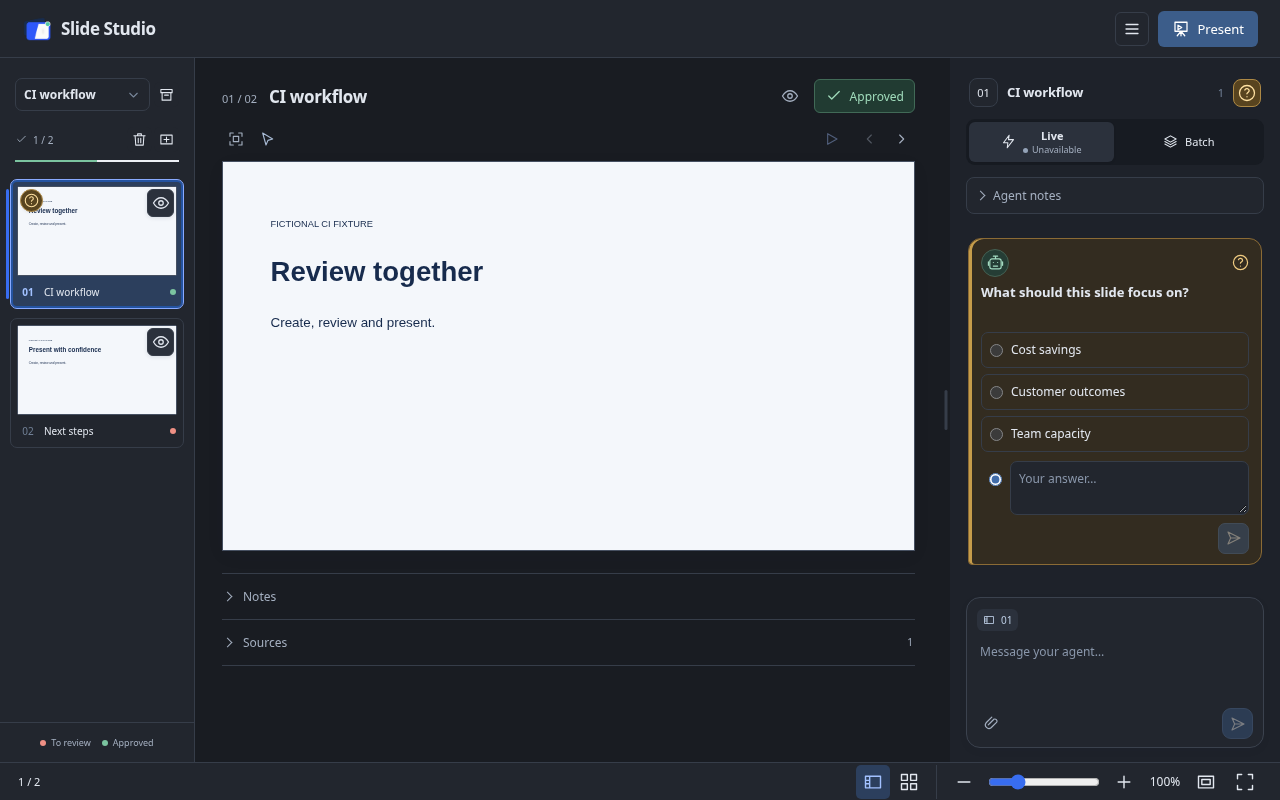
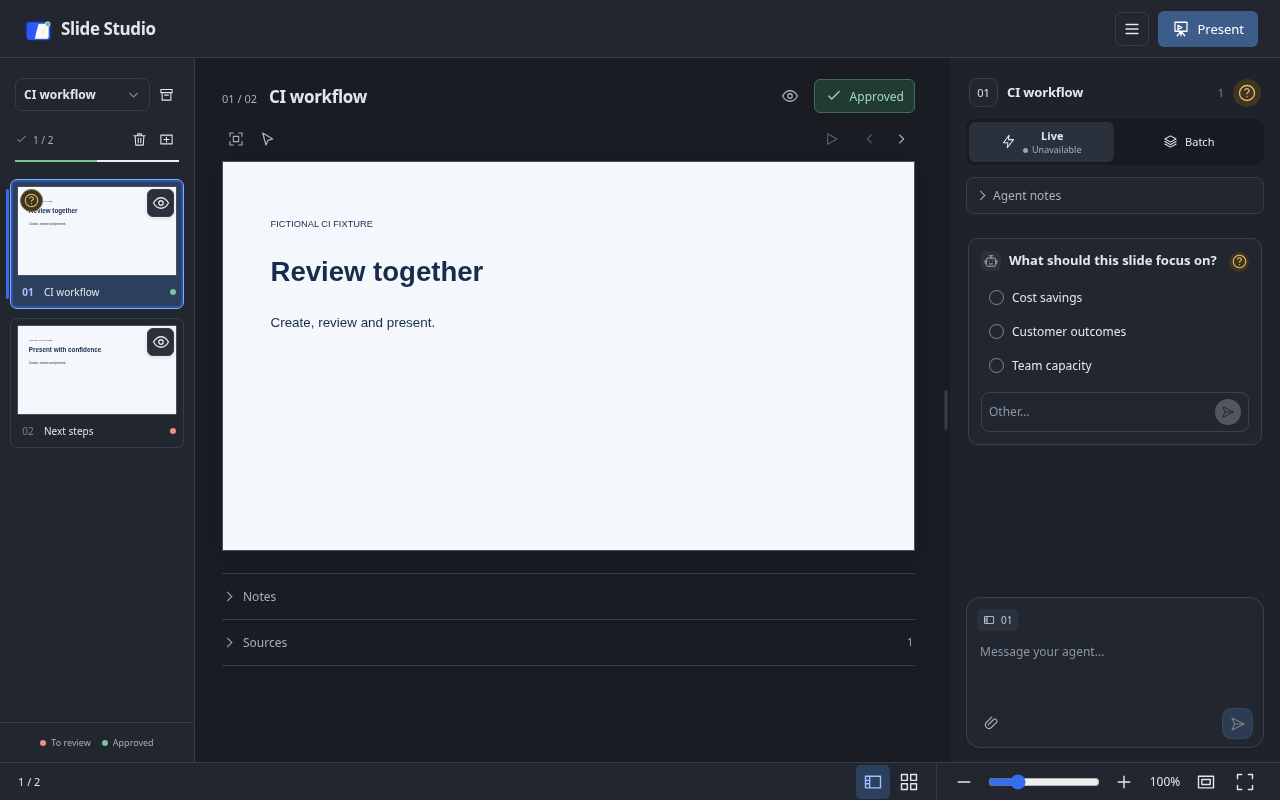
Compact slide questions and anchor zoom to the pointer

diff --git a/web/slide-questions.js b/web/slide-questions.js
@@ -17,16 +17,15 @@
       let value=draft(id);const answer=answerFor(question,events),pending=value.choice===null?value.text.trim():question.question.options[value.choice];if(answer&&pending&&answer.message===pending){drafts.delete(id);persist();value=draft(id);}
       const batch=deliveryMode()==='batch',hasDraft=!!value.text||value.choice!==null,description=({open:'Awaiting your answer',queued:'Answer queued — not sent to the agent',answered:'Answered',cancelled:'Cancelled'})[state];
       const stateIcon=state==='open'?'question':state==='queued'?'clock':state==='answered'?'check':'close';
-      const choices=(question.question.options||[]).map((option,index)=>`<label class="question-option"><input type="radio" name="question-${question.event_id}" value="${index}" ${value.choice===index?'checked':''}><span>${escape(option)}</span></label>`).join('');
-      const input=open||hasDraft?`<div class="question-custom">${open&&question.question.options.length?`<input type="radio" name="question-${question.event_id}" value="custom" aria-label="Write your own answer" ${value.choice===null?'checked':''}>`:''}<textarea class="question-answer" maxlength="10000" rows="2" aria-label="${open?'Write your own answer':'Unsent answer'}" placeholder="Your answer…" ${open?'':'readonly'}>${escape(open?value.text:value.text||(question.question.options[value.choice]||''))}</textarea></div>`:'';
+      const choices=(question.question.options||[]).map((option,index)=>`<label class="question-option"><input type="radio" name="question-${question.event_id}" value="${index}" ${value.choice===index?'checked':''}><span class="question-choice-mark" aria-hidden="true">${svg('check')}</span><span>${escape(option)}</span></label>`).join('');
+      const input=open||hasDraft?`<div class="question-custom">${open&&question.question.options.length?`<input type="radio" name="question-${question.event_id}" value="custom" aria-label="Write your own answer" ${value.choice===null?'checked':''}>`:''}<textarea class="question-answer" maxlength="10000" rows="1" aria-label="${open?'Write your own answer':'Unsent answer'}" placeholder="${question.question.options.length?'Other…':'Your answer…'}" ${open?'':'readonly'}>${escape(open?value.text:value.text||(question.question.options[value.choice]||''))}</textarea></div>`:'';
       return `<article class="comment agent question-card" data-question-id="${question.event_id}" data-question-state="${state}">
-        <div class="comment-header">${avatar('agent')}<span class="question-state" role="img" aria-label="${description}" title="${description}">${svg(stateIcon)}${state==='queued'||state==='cancelled'?`<span aria-hidden="true">${state==='queued'?'Queued':'Cancelled'}</span>`:''}</span></div>
-        <form class="question-form"><fieldset aria-labelledby="question-prompt-${question.event_id}"><legend class="sr-only">Answer the agent’s question</legend><div class="question-prompt chat-markdown" id="question-prompt-${question.event_id}" tabindex="-1">${root.SlideChatMarkdown.render(question.message)}</div>${open&&question.content_hash!==contentHash?'<span class="old-version question-version">Earlier version</span>':''}
-          ${open?`<div class="question-options">${choices}</div>`:''}${input}
-          <div class="question-actions" ${!open&&!hasDraft&&!errors.get(id)?'hidden':''}><span class="question-error" role="alert">${escape(errors.get(id)||'')}</span>
+        <form class="question-form"><fieldset aria-labelledby="question-prompt-${question.event_id}"><legend class="sr-only">Answer the agent’s question</legend><div class="question-heading">${avatar('agent')}<div class="question-prompt chat-markdown" id="question-prompt-${question.event_id}" tabindex="-1">${root.SlideChatMarkdown.render(question.message)}</div><span class="question-state" role="img" aria-label="${description}" title="${description}">${svg(stateIcon)}${state==='queued'||state==='cancelled'?`<span aria-hidden="true">${state==='queued'?'Queued':'Cancelled'}</span>`:''}</span></div>${open&&question.content_hash!==contentHash?'<span class="old-version question-version">Earlier version</span>':''}
+          ${open?`<div class="question-options">${choices}</div>`:''}<div class="question-response" ${!open&&!hasDraft&&!errors.get(id)?'hidden':''}>${input}
+          <div class="question-actions" ${!open&&!hasDraft&&!errors.get(id)?'hidden':''}>
             ${open||hasDraft?`<button type="reset" class="question-clear" aria-label="Discard unsent answer" title="Discard unsent answer" ${hasDraft?'':'hidden'}>${svg('close')}</button>`:''}
-            ${open?`<button class="primary question-send" type="submit" aria-label="${batch?'Add answer to batch':'Send answer'}" title="${batch?'Add answer to batch':'Send answer'}" data-delivery-mode="${batch?'batch':'live'}">${svg(batch?'batch':'send')}</button>`:''}
-          </div></fieldset></form></article>`;
+            ${open?`<button class="question-send" type="submit" aria-label="${batch?'Add answer to batch':'Send answer'}" title="${batch?'Add answer to batch':'Send answer'}" data-delivery-mode="${batch?'batch':'live'}">${svg(batch?'batch':'send')}</button>`:''}
+          </div><span class="question-error" role="alert">${escape(errors.get(id)||'')}</span></div></fieldset></form></article>`;
     }
     function updateDelivery(list){const mode=deliveryMode();for(const button of list.querySelectorAll('.question-send')){if(button.dataset.deliveryMode===mode)continue;const batch=mode==='batch',label=batch?'Add answer to batch':'Send answer';button.dataset.deliveryMode=mode;button.setAttribute('aria-label',label);button.title=label;button.innerHTML=svg(batch?'batch':'send');}}
     function mount(list,events,deckId,slideId){
@@ -35,10 +34,10 @@
         const question=events.find(item=>item.event_id===Number(card.dataset.questionId));if(!question)continue;
         const id=key(deckId,slideId,question.event_id),form=card.querySelector('form'),input=card.querySelector('textarea'),send=card.querySelector('.question-send');
         function sync(){const current=draft(id);if(send)send.disabled=busy.has(id)||(current.choice===null&&!current.text.trim());for(const element of card.querySelectorAll('input,textarea,button'))element.disabled=busy.has(id);if(send&&!busy.has(id))send.disabled=current.choice===null&&!current.text.trim();card.setAttribute('aria-busy',String(busy.has(id)));const clear=card.querySelector('.question-clear');if(clear)clear.hidden=!current.text&&current.choice===null;const error=card.querySelector('.question-error');if(error)error.textContent=errors.get(id)||'';}
-        function clear(){drafts.delete(id);errors.delete(id);persist();if(input)input.value='';for(const radio of card.querySelectorAll('input'))radio.checked=radio.value==='custom';card.querySelector('.question-error').textContent='';if(status(question,events)!=='open'){card.querySelector('.question-custom')?.remove();card.querySelector('.question-actions').hidden=true;card.querySelector('.question-prompt').focus({preventScroll:true});}else input?.focus({preventScroll:true});sync();}
+        function clear(){drafts.delete(id);errors.delete(id);persist();if(input)input.value='';for(const radio of card.querySelectorAll('input'))radio.checked=radio.value==='custom';card.querySelector('.question-error').textContent='';if(status(question,events)!=='open'){card.querySelector('.question-custom')?.remove();card.querySelector('.question-actions').hidden=true;card.querySelector('.question-response').hidden=true;card.querySelector('.question-prompt').focus({preventScroll:true});}else input?.focus({preventScroll:true});sync();}
         input?.addEventListener('input',()=>{write(id,{text:input.value,choice:null,request_id:crypto.randomUUID()});for(const radio of card.querySelectorAll('input'))radio.checked=radio.value==='custom';sync();});
         input?.addEventListener('keydown',event=>{if(event.key==='Enter'&&!event.shiftKey&&!event.altKey&&!event.isComposing&&event.keyCode!==229&&send){event.preventDefault();if(!event.repeat&&!send.disabled)form.requestSubmit();}});
-        input?.addEventListener('focus',()=>{if(status(question,events)!=='open')return;const current=draft(id);if(current.choice!==null)write(id,{...current,choice:null,request_id:crypto.randomUUID()});for(const radio of card.querySelectorAll('input'))radio.checked=radio.value==='custom';sync();});
+        input?.addEventListener('pointerdown',()=>{if(status(question,events)!=='open')return;const current=draft(id);if(current.choice!==null)write(id,{...current,choice:null,request_id:crypto.randomUUID()});for(const radio of card.querySelectorAll('input'))radio.checked=radio.value==='custom';sync();});
         for(const radio of card.querySelectorAll('input'))radio.addEventListener('change',()=>{const current=draft(id);write(id,{...current,choice:radio.value==='custom'?null:Number(radio.value),request_id:crypto.randomUUID()});sync();if(radio.value==='custom')input?.focus({preventScroll:true});});
         form.addEventListener('reset',event=>{event.preventDefault();clear();});
         form.addEventListener('submit',async event=>{

diff --git a/web/slide-questions.css b/web/slide-questions.css
@@ -1,32 +1,63 @@
-.discussion .question-card{width:100%;max-width:100%}
-.discussion .question-card[data-question-state=open]{background:#fffbf3;border-color:#e3c385;box-shadow:inset 3px 0 #d3a54c}
-.question-state{display:inline-flex;align-items:center;gap:5px;font-size:10px;color:var(--subtle)}
-.question-card[data-question-state=open] .question-state{color:#95661a}
-.question-state .ui-icon{width:17px;height:17px}
+/* A quiet decision surface inside the conversation; amber is reserved for pending markers. */
+.discussion .comment.question-card{
+  --question-surface:#fff;
+  --question-hover:#f4f5f7;
+  --question-selected:#edf0f3;
+  --question-ink:#29313d;
+  --question-rule:#e3e6eb;
+  --question-muted:#687382;
+  width:100%;max-width:100%;padding:12px;
+  border:1px solid var(--question-rule);border-radius:10px;
+  background:var(--question-surface);box-shadow:none;
+}
+.question-heading{display:flex;align-items:flex-start;gap:8px}
+.question-card .chat-avatar.agent{width:20px;height:20px;border:0;border-radius:5px;background:var(--question-hover);color:var(--question-muted)}
+.question-card .chat-avatar .ui-icon{width:14px;height:14px}
+.question-state{display:inline-flex;align-items:center;gap:5px;font-size:10px;line-height:1.4;color:var(--subtle)}
+.question-state .ui-icon{width:15px;height:15px}
+.question-state{flex-shrink:0;margin-top:1px}
+.question-card[data-question-state=open] .question-state{width:20px;height:20px;justify-content:center;border-radius:50%;background:#fff5df;color:#956717}
 .question-form fieldset{padding:0;margin:0;min-width:0;border:0}
-.question-prompt{font-size:13px;line-height:1.5;font-weight:600;padding:0;margin-bottom:10px;white-space:pre-wrap;overflow-wrap:anywhere}
-.question-options{display:flex;flex-direction:column;gap:6px}
-.question-version{margin:0 0 8px!important}
-.question-option{display:flex;align-items:flex-start;gap:8px;padding:8px;border:1px solid var(--line);border-radius:7px;cursor:pointer;font-size:12px;line-height:1.5;overflow-wrap:anywhere}
-.question-option:has(input:checked){border-color:#7b9dcc;background:#eaf1fc}
-.question-option input{flex-shrink:0;margin:3px 0 0;accent-color:#416ca9}
-.question-card textarea{display:block;width:100%;min-height:52px;max-height:160px;resize:vertical;margin-top:9px;padding:8px;font-size:12px;line-height:1.5;border:1px solid var(--line);border-radius:7px;background:var(--surface,#fff);color:var(--ink)}
-.question-custom{display:flex;align-items:flex-start;gap:8px;margin-top:9px}
-.question-custom>input{margin:12px 0 0 8px;flex-shrink:0;accent-color:#416ca9}
-.question-custom>textarea{margin-top:0;min-width:0}
-.question-custom:has(input:checked)>textarea{border-color:#7b9dcc}
-.question-actions{display:flex;align-items:center;gap:6px;margin-top:8px}
-.question-error{flex:1;font-size:11px;color:var(--red,#a23932);overflow-wrap:anywhere}
-.question-actions button{display:grid;place-items:center;width:31px;min-height:31px;padding:6px;border-radius:7px;flex-shrink:0}
-.question-actions .ui-icon{width:16px;height:16px}
-.question-actions .question-clear{background:transparent;border:0;color:var(--subtle)}
-.thumb-question{position:absolute;top:9px;left:9px;display:flex;align-items:center;justify-content:center;gap:3px;padding:3px;border:1px solid #d6b76e;background:#fff1c9;color:#845913;border-radius:50%;box-shadow:0 1px 3px #0001;min-width:23px;height:23px}
+.question-prompt{min-width:0;flex:1;font-size:13px;line-height:1.5;font-weight:550;padding:0;margin:0;overflow-wrap:anywhere}
+.question-prompt:focus-visible{outline:2px solid var(--blue,#648ac3);outline-offset:4px;border-radius:3px}
+.question-options{display:flex;flex-direction:column;gap:2px;margin:10px 0}
+.question-options:empty{display:none}
+.question-version{margin:5px 0 0!important}
+.question-option{position:relative;display:flex;align-items:flex-start;gap:8px;min-height:32px;padding:7px 8px;border:0;border-radius:6px;cursor:pointer;font-size:12px;line-height:1.5;overflow-wrap:anywhere;transition:background .12s}
+.question-option:hover{background:var(--question-hover)}
+.question-option:has(input:checked){background:var(--question-selected);color:var(--question-ink)}
+.question-option input{position:absolute;inset:0;width:100%;height:100%;margin:0;opacity:0;cursor:pointer}
+.question-option input:disabled{cursor:default}
+.question-option:has(input:focus-visible){outline:2px solid var(--blue,#648ac3);outline-offset:2px}
+.question-choice-mark{display:grid;place-items:center;flex-shrink:0;width:15px;height:15px;margin-top:1px;border:1px solid #84909e;border-radius:50%;color:transparent}
+.question-choice-mark .ui-icon{width:10px;height:10px;stroke-width:2.4}
+.question-option:has(input:checked) .question-choice-mark{border-color:var(--question-ink);background:var(--question-ink);color:var(--question-surface)}
+.question-response{display:grid;grid-template-columns:minmax(0,1fr) auto;align-items:end;gap:0 6px;margin-top:10px;padding:6px 7px;border:1px solid var(--question-rule);border-radius:8px;transition:border-color .12s}
+.question-response:focus-within{border-color:var(--question-muted)}
+.question-response:has(input:focus-visible){outline:2px solid var(--blue,#648ac3);outline-offset:2px}
+.question-custom{position:relative;display:flex;min-width:0}
+.question-custom>input{position:absolute;clip:rect(0,0,0,0);width:1px;height:1px;margin:0;overflow:hidden}
+.discussion .question-card textarea{display:block;width:100%;min-width:0;min-height:26px;max-height:96px;resize:none;field-sizing:content;padding:3px 0;margin:0;border:0;border-radius:0;background:transparent;color:var(--ink,#20242b);font-size:12px;line-height:1.6;outline:none;box-shadow:none}
+.question-card textarea::placeholder{color:var(--question-muted)}
+.question-actions{display:flex;align-items:center;justify-content:flex-end;gap:3px}
+.question-error{grid-column:1/-1;font-size:11px;color:var(--red,#a23932);overflow-wrap:anywhere;margin-top:6px}
+.question-error:empty{display:none}
+.question-actions button{display:grid;place-items:center;width:26px;min-height:26px;padding:5px;border:0;border-radius:50%;flex-shrink:0}
+.question-actions .ui-icon{width:14px;height:14px}
+.question-actions .question-clear{background:transparent;color:var(--question-muted)}
+.question-actions .question-clear:hover{background:var(--question-hover);color:var(--question-ink)}
+.discussion .question-card .question-actions .question-send{background:var(--question-ink);color:var(--question-surface);border-color:transparent}
+.discussion .question-card .question-actions .question-send:hover:not(:disabled){opacity:.82}
+.discussion .question-card .question-actions .question-send:disabled{opacity:.25}
+.question-card:not([data-question-state=open]) .question-prompt{margin-bottom:0;color:var(--subtle);font-size:13px;font-weight:450}
+.question-card:not([data-question-state=open]) .question-response{margin-top:12px}
+.thumb-question{position:absolute;top:9px;left:9px;display:flex;align-items:center;justify-content:center;gap:3px;min-width:23px;height:23px;padding:3px;border:1px solid #dfc78e;border-radius:50%;background:#fff5df;color:#895e16}
 .thumb-question .ui-icon{width:15px;height:15px}
 .thumb-question[hidden]{display:none}
-#chat-question-status{margin-left:auto;min-height:28px;width:28px;padding:4px;background:#fff1c9;color:#845913;border-color:#d6b76e;border-radius:8px}
-:root[data-theme=dark] .discussion .question-card[data-question-state=open]{background:#332c20;border-color:#8b6b35;box-shadow:inset 3px 0 #c69d4b}
-:root[data-theme=dark] .question-card[data-question-state=open] .question-state{color:#f0cb81}
-:root[data-theme=dark] .question-option:has(input:checked){background:var(--selected);border-color:#7396cb}
-:root[data-theme=dark] :is(.thumb-question,#chat-question-status){background:#58441f;color:#ffe1a2;border-color:#ad8945}
-
-.question-prompt:focus-visible{outline:2px solid var(--blue,#648ac3);outline-offset:3px;border-radius:3px}
+#chat-question-status{margin-left:auto;min-height:28px;width:28px;padding:5px;border:0;border-radius:50%;background:#fff5df;color:#895e16}
+:root[data-theme=dark] .discussion .comment.question-card{--question-surface:#22262e;--question-hover:#2b3039;--question-selected:#343b47;--question-ink:#e2e7ef;--question-rule:#3b424e;--question-muted:#a1acbd;background:var(--question-surface);border-color:var(--question-rule)}
+:root[data-theme=dark] .question-card .chat-avatar.agent{background:var(--question-hover);color:var(--question-muted);border:0}
+:root[data-theme=dark] .question-choice-mark{border-color:#7c8799}
+:root[data-theme=dark] .question-card[data-question-state=open] .question-state{background:#40351f;color:#e7be70}
+:root[data-theme=dark] :is(.thumb-question,#chat-question-status){background:#40351f;color:#e7be70;border-color:#80683e}
+@media(forced-colors:active){.question-option:has(input:checked){outline:1px solid Highlight}.question-option:has(input:checked) .question-choice-mark{border-color:Highlight;background:Highlight;color:HighlightText}.question-card[data-question-state=open] .question-state{outline:1px solid CanvasText}}

diff --git a/web/slide-sorter.js b/web/slide-sorter.js
@@ -15,11 +15,27 @@
     const offset={ArrowLeft:-1,ArrowRight:1,ArrowUp:-columns,ArrowDown:columns}[key]||0;
     return Math.max(0,Math.min(count-1,index+offset));
   }
-  function create({workspace,rail,preview,controls,read,prepare,onChange=()=>{},edit,blocked=()=>false,requestFrame=callback=>root.requestAnimationFrame(callback),cancelFrame=id=>root.cancelAnimationFrame(id)}){
+  function create({workspace,rail,preview,canvas=null,controls,read,prepare,onChange=()=>{},edit,blocked=()=>false,requestFrame=callback=>root.requestAnimationFrame(callback),cancelFrame=id=>root.cancelAnimationFrame(id)}){
     const {editButton,gridButton,minus,plus,range,value,fit,status}=controls;
     let zoom=100,editorZoom=100,reference=700,autoFit=false,changing=false,queued=null,applying=null,wheel=0,frame=null,epoch=0;
     let renderedView=null,renderedEditorZoom=null,renderedCardWidth=null,renderedDense=null;
     const isOpen=()=>zoom<=50;
+    /** Retain a slide coordinate at the pointer, or the visible centre for toolbar zoom. */
+    function captureAnchor(point){
+      if(!canvas)return null;
+      const surface=preview.querySelector('iframe')||preview,bounds=surface.getBoundingClientRect(),viewport=canvas.getBoundingClientRect();
+      const left=Math.max(bounds.left,viewport.left+canvas.clientLeft),top=Math.max(bounds.top,viewport.top+canvas.clientTop),right=Math.min(bounds.right,viewport.left+canvas.clientLeft+canvas.clientWidth),bottom=Math.min(bounds.bottom,viewport.top+canvas.clientTop+canvas.clientHeight);
+      if(right<=left||bottom<=top||!bounds.width||!bounds.height)return null;
+      const inside=point&&point.x>=left&&point.x<=right&&point.y>=top&&point.y<=bottom;
+      const x=inside?point.x:(left+right)/2,y=inside?point.y:(top+bottom)/2;
+      return {surface,x,y,u:(x-bounds.left)/bounds.width,v:(y-bounds.top)/bounds.height};
+    }
+    function restoreAnchor(anchor){
+      if(!anchor||!anchor.surface.isConnected)return;
+      const bounds=anchor.surface.getBoundingClientRect();
+      canvas.scrollLeft+=bounds.left+anchor.u*bounds.width-anchor.x;
+      canvas.scrollTop+=bounds.top+anchor.v*bounds.height-anchor.y;
+    }
     function size(){const bounds=rail.getBoundingClientRect();return {width:Math.max(100,bounds.width-56),height:Math.max(100,bounds.height-48)};}
     function render(){
       const state=read(),overview=isOpen();
@@ -39,9 +55,9 @@
     }
     function schedule(){if(frame===null&&!changing&&queued)frame=requestFrame(()=>void flush());}
     /** Apply only the latest pointer/wheel target per frame; never replay a stale backlog. */
-    function set(next,{fitting=false}={}){
+    function set(next,{fitting=false,point=null}={}){
       queued?.resolve(false);
-      const result=new Promise((resolve,reject)=>{queued={next:clamp(next),fitting,resolve,reject};});
+      const result=new Promise((resolve,reject)=>{queued={next:clamp(next),fitting,point,resolve,reject};});
       schedule();return result;
     }
     async function flush(){
@@ -58,7 +74,7 @@
         }
         if(queued){request.resolve(false);request=queued;queued=null;applying=request;}
         if(!read()||blocked()){applying=null;render();request.resolve(false);return;}
-        const wasOpen=isOpen();
+        const wasOpen=isOpen(),anchor=!wasOpen&&request.next>50&&!request.fitting?captureAnchor(request.point):null;
         if(!wasOpen&&request.next<=50){const width=preview.getBoundingClientRect().width;if(width)reference=width/(editorZoom/100);}
         applying=null;zoom=request.next;autoFit=request.fitting&&zoom<=50;
         if(!isOpen())editorZoom=zoom;
@@ -68,14 +84,19 @@
           onChange(true);
           if(document.activeElement!==range)rail.querySelector('[aria-current="true"]')?.focus({preventScroll:true});
         }
+        restoreAnchor(anchor);
         request.resolve(true);
       }catch(error){request.reject(error);}
       finally{changing=false;applying=null;schedule();}
     }
-    function zoomWheel(event){
+    function zoomWheel(event,sourceFrame=null){
       if(!event.ctrlKey&&!event.metaKey||event.altKey||blocked()||!read())return;
       event.preventDefault();wheel+=event.deltaY;
-      if(Math.abs(wheel)>=12){const direction=wheel>0?-1:1;wheel=0;void set((queued?.next??applying?.next??zoom)+direction*5);}
+      if(Math.abs(wheel)>=12){
+        const direction=wheel>0?-1:1;wheel=0;
+        const offset=sourceFrame?.getBoundingClientRect(),point=Number.isFinite(event.clientX)&&Number.isFinite(event.clientY)?{x:event.clientX+(offset?.left||0),y:event.clientY+(offset?.top||0)}:null;
+        void set((queued?.next??applying?.next??zoom)+direction*5,{point});
+      }
     }
     root.SlideIcons.button(editButton,'slides','Edit view');root.SlideIcons.button(gridButton,'grid','Slide sorter');
     root.SlideIcons.button(minus,'minus','Zoom out · zoom further out for slide sorter');root.SlideIcons.button(plus,'plus','Zoom in');

diff --git a/web/app.js b/web/app.js
@@ -152,7 +152,7 @@
     const previous=feedbackDraft()||{};feedbackDrafts.set(key(),{...previous,target:currentTarget,slide_id:selectedId,context_slide_id:selectedId,content_hash:slide().content_hash});retainDraft();renderTarget();objectPicker.sync(selectedElement);if(focus)$('feedback-text').focus();return true;
   }
   /** Install immediate hover and click targeting inside the script-free slide preview. */
-  function bindPreview(){const doc=$('preview').contentDocument;if(!doc)return;elementEditor.bind(doc);const fresh=!boundPreviewDocuments.has(doc);bindKeyboardSelection(doc,fresh);doc.documentElement.style.cursor='crosshair';if(fresh){boundPreviewDocuments.add(doc);doc.addEventListener('wheel',event=>sorter.zoomWheel(event),{passive:false});doc.addEventListener('pointermove',event=>{if(elementEditor.isEditing()||elementEditor.isBusy())return;let target=event.target;if(!(target instanceof doc.defaultView.Element)||target.matches('html,body,.slide')){hoverElement=null;$('hover-box').hidden=true;return;}if(target.closest('svg')?.classList.contains('icon'))target=target.closest('svg');if(target===selectedElement){$('hover-box').hidden=true;return;}if(hoverElement===target)return;hoverElement=target;placeBox($('hover-box'),target);$('hover-box').querySelector('span').textContent=labelFor(target);});doc.documentElement.addEventListener('pointerleave',()=>{$('hover-box').hidden=true;hoverElement=null;});doc.addEventListener('click',event=>{if(elementEditor.isEditing()||elementEditor.isBusy()||feedbackSending)return;event.preventDefault();event.stopPropagation();if(elementEditor.consumeClick())return;let target=event.target;if(target.closest('svg')?.classList.contains('icon'))target=target.closest('svg');selectElement(target,false);});}if(currentTarget&&feedbackDraft()?.slide_id===selectedId&&feedbackDraft()?.content_hash===slide().content_hash){try{selectedElement=doc.querySelector(currentTarget.selector);placeBox($('selection-box'),selectedElement);elementEditor.select(selectedElement);}catch{selectedElement=null;}renderTarget();}}
+  function bindPreview(){const doc=$('preview').contentDocument;if(!doc)return;elementEditor.bind(doc);const fresh=!boundPreviewDocuments.has(doc);bindKeyboardSelection(doc,fresh);doc.documentElement.style.cursor='crosshair';if(fresh){boundPreviewDocuments.add(doc);doc.addEventListener('wheel',event=>sorter.zoomWheel(event,$('preview')),{passive:false});doc.addEventListener('pointermove',event=>{if(elementEditor.isEditing()||elementEditor.isBusy())return;let target=event.target;if(!(target instanceof doc.defaultView.Element)||target.matches('html,body,.slide')){hoverElement=null;$('hover-box').hidden=true;return;}if(target.closest('svg')?.classList.contains('icon'))target=target.closest('svg');if(target===selectedElement){$('hover-box').hidden=true;return;}if(hoverElement===target)return;hoverElement=target;placeBox($('hover-box'),target);$('hover-box').querySelector('span').textContent=labelFor(target);});doc.documentElement.addEventListener('pointerleave',()=>{$('hover-box').hidden=true;hoverElement=null;});doc.addEventListener('click',event=>{if(elementEditor.isEditing()||elementEditor.isBusy()||feedbackSending)return;event.preventDefault();event.stopPropagation();if(elementEditor.consumeClick())return;let target=event.target;if(target.closest('svg')?.classList.contains('icon'))target=target.closest('svg');selectElement(target,false);});}if(currentTarget&&feedbackDraft()?.slide_id===selectedId&&feedbackDraft()?.content_hash===slide().content_hash){try{selectedElement=doc.querySelector(currentTarget.selector);placeBox($('selection-box'),selectedElement);elementEditor.select(selectedElement);}catch{selectedElement=null;}renderTarget();}}
   /** Render discussion as text, including element anchors and original-version labels. */
   function renderWorkflow(){
     const state=deck.workflow||{mode:'live',pending:0},live=state.mode==='live',available=state.agent_waiting;
@@ -283,7 +283,7 @@
     }
   });
   const sorter=window.SlideSorter.create({
-    workspace:document.querySelector('.workspace'),rail:$('slides'),preview:$('preview-wrap'),
+    workspace:document.querySelector('.workspace'),rail:$('slides'),preview:$('preview-wrap'),canvas:document.querySelector('.canvas-area'),
     controls:{editButton:$('edit-view'),gridButton:$('sorter-view'),minus:$('zoom-out'),plus:$('zoom-in'),range:$('view-zoom'),value:$('zoom-value'),fit:$('fit-view'),status:$('view-status')},
     read:()=>deck?{count:deck.slides.length,index:deck.slides.findIndex(item=>item.id===selectedId)}:null,
     blocked:()=>visibilityBusy||slideOrder.isBusy()||slideOrder.isDragging()||slideActions.isBusy()||switchingDeck||feedbackSending,

diff --git a/web/style.css b/web/style.css
@@ -148,7 +148,7 @@ a{color:inherit}
 .dot.green{background:var(--green)}
 .rail-foot{display:flex;align-items:center;justify-content:center;gap:5px;border-top:1px solid var(--line);padding:13px 5px;font-size:9px;color:var(--subtle)}
 .rail-foot .dot:nth-of-type(2){margin-left:6px}
-.canvas-area{padding:21px 27px 36px;overflow:auto;min-width:0}
+.canvas-area{padding:21px 27px 36px;overflow:auto;overflow-anchor:none;min-width:0}
 .slide-heading{display:flex;align-items:center;justify-content:space-between;gap:15px;margin-bottom:12px}
 .slide-label{display:flex;align-items:baseline;gap:12px;min-width:0}
 #slide-eyebrow{font-size:11px;color:var(--subtle);white-space:nowrap;font-variant-numeric:tabular-nums}

diff --git a/tests/integration/test_zoom.py b/tests/integration/test_zoom.py
@@ -1,0 +1,80 @@
+"""Keep a visible slide coordinate still while zooming through each input surface."""
+
+import os
+
+import pytest
+from playwright.sync_api import Page, expect
+
+from tests.integration.support import RunningApp
+from tests.integration.test_browser import open_editor
+
+pytestmark = [
+    pytest.mark.browser,
+    pytest.mark.skipif(
+        os.environ.get("SLIDE_STUDIO_BROWSER_TESTS") != "1", reason="Opt-in browser journeys"
+    ),
+]
+
+
+@pytest.mark.parametrize("source", ["preview", "canvas", "toolbar"])
+def test_zoom_preserves_the_visible_slide_point(
+    page: Page, live_app: RunningApp, source: str
+) -> None:
+    """Translate iframe coordinates, retain pointer anchors and centre toolbar zooms."""
+    page.set_viewport_size({"width": 1280, "height": 800})
+    open_editor(page, live_app)
+    page.locator("#view-zoom").evaluate(
+        "element => { element.value = '200'; element.dispatchEvent(new Event('input')); }"
+    )
+    expect(page.locator("#zoom-value")).to_have_text("200%")
+    canvas = page.locator(".canvas-area")
+    canvas.evaluate("element => { element.scrollLeft = 200; element.scrollTop = 100; }")
+    viewport = canvas.evaluate(
+        """element => {
+            const bounds = element.getBoundingClientRect();
+            return {x: bounds.left + element.clientLeft, y: bounds.top + element.clientTop,
+                    width: element.clientWidth, height: element.clientHeight};
+        }"""
+    )
+    before = page.locator("#preview").bounding_box()
+    assert viewport and before
+    left, right = (
+        max(before["x"], viewport["x"]),
+        min(before["x"] + before["width"], viewport["x"] + viewport["width"]),
+    )
+    top, bottom = (
+        max(before["y"], viewport["y"]),
+        min(before["y"] + before["height"], viewport["y"] + viewport["height"]),
+    )
+    x = (left + right) / 2 if source == "toolbar" else left + (right - left) * 0.7
+    y = (top + bottom) / 2 if source == "toolbar" else top + (bottom - top) * 0.6
+    u, v = (x - before["x"]) / before["width"], (y - before["y"]) / before["height"]
+
+    for direction in (1, -1):
+        if source == "preview":
+            page.mouse.move(x, y)
+            page.keyboard.down("Control")
+            page.mouse.wheel(0, -120 * direction)
+            page.keyboard.up("Control")
+        elif source == "canvas":
+            canvas.evaluate(
+                """(element, point) => element.dispatchEvent(new WheelEvent('wheel', {
+                    clientX: point.x, clientY: point.y, deltaY: -120 * point.direction,
+                    ctrlKey: true, bubbles: true, cancelable: true
+                }))""",
+                {"x": x, "y": y, "direction": direction},
+            )
+        else:
+            page.locator("#zoom-in" if direction == 1 else "#zoom-out").click()
+        expect(page.locator("#zoom-value")).to_have_text(
+            f"{200 + (10 if source == 'toolbar' else 5) if direction == 1 else 200}%"
+        )
+        after = page.locator("#preview").bounding_box()
+        assert after
+        assert abs(after["x"] + u * after["width"] - x) < 2
+        assert abs(after["y"] + v * after["height"] - y) < 2
+
+    page.locator("#fit-view").click()
+    expect(page.locator("#zoom-value")).to_have_text("100%")
+    assert canvas.evaluate("element => element.scrollLeft == 0 && element.scrollTop == 0")
+    assert page.evaluate("document.documentElement.scrollWidth <= innerWidth")

diff --git a/tests/integration/test_questions.py b/tests/integration/test_questions.py
@@ -83,9 +83,19 @@ def test_question_choices_and_slide_markers(
         }"""
     )
     _ = page.screenshot(path=str(artifacts / "pending-question-dark.png"), full_page=True)
-    card.get_by_role("radio", name="Customer outcomes", exact=True).check()
-    card.get_by_role("button", name="Send answer", exact=True).click()
+    choice = card.get_by_role("radio", name="Customer outcomes", exact=True)
+    choice.check()
+    choice.focus()
+    page.keyboard.press("Tab")
+    expect(card.get_by_role("textbox", name="Write your own answer")).to_be_focused()
+    expect(choice).to_be_checked()
+    page.keyboard.press("Tab")
+    expect(card.get_by_role("button", name="Discard unsent answer", exact=True)).to_be_focused()
+    page.keyboard.press("Tab")
+    expect(card.get_by_role("button", name="Send answer", exact=True)).to_be_focused()
+    page.keyboard.press("Enter")
     expect(card).to_have_attribute("data-question-state", "answered")
+    expect(card.locator(".question-response")).to_be_hidden()
     expect(thumb.locator(".thumb-question")).to_be_hidden()
     expect(page.locator("#chat-question-status")).to_be_hidden()
     expect(page.locator(".comment.user .chat-markdown")).to_contain_text("Customer outcomes")
@@ -111,7 +121,7 @@ def test_free_answer_draft_survives_updates_slide_switch_reload_and_project(
     card.get_by_role("radio", name="Cost savings", exact=True).check()
     expect(text).to_have_value("A mix of customer outcomes and practical next steps.")
     expect(card.get_by_role("radio", name="Cost savings", exact=True)).to_be_checked()
-    text.focus()
+    text.click()
     expect(card.get_by_role("radio", name="Write your own answer", exact=True)).to_be_checked()
     second = ask(live_app, request_id="browser-question-002", question="Who will present it?")
     expect(page.locator(f'[data-question-id="{second}"]')).to_be_visible()
